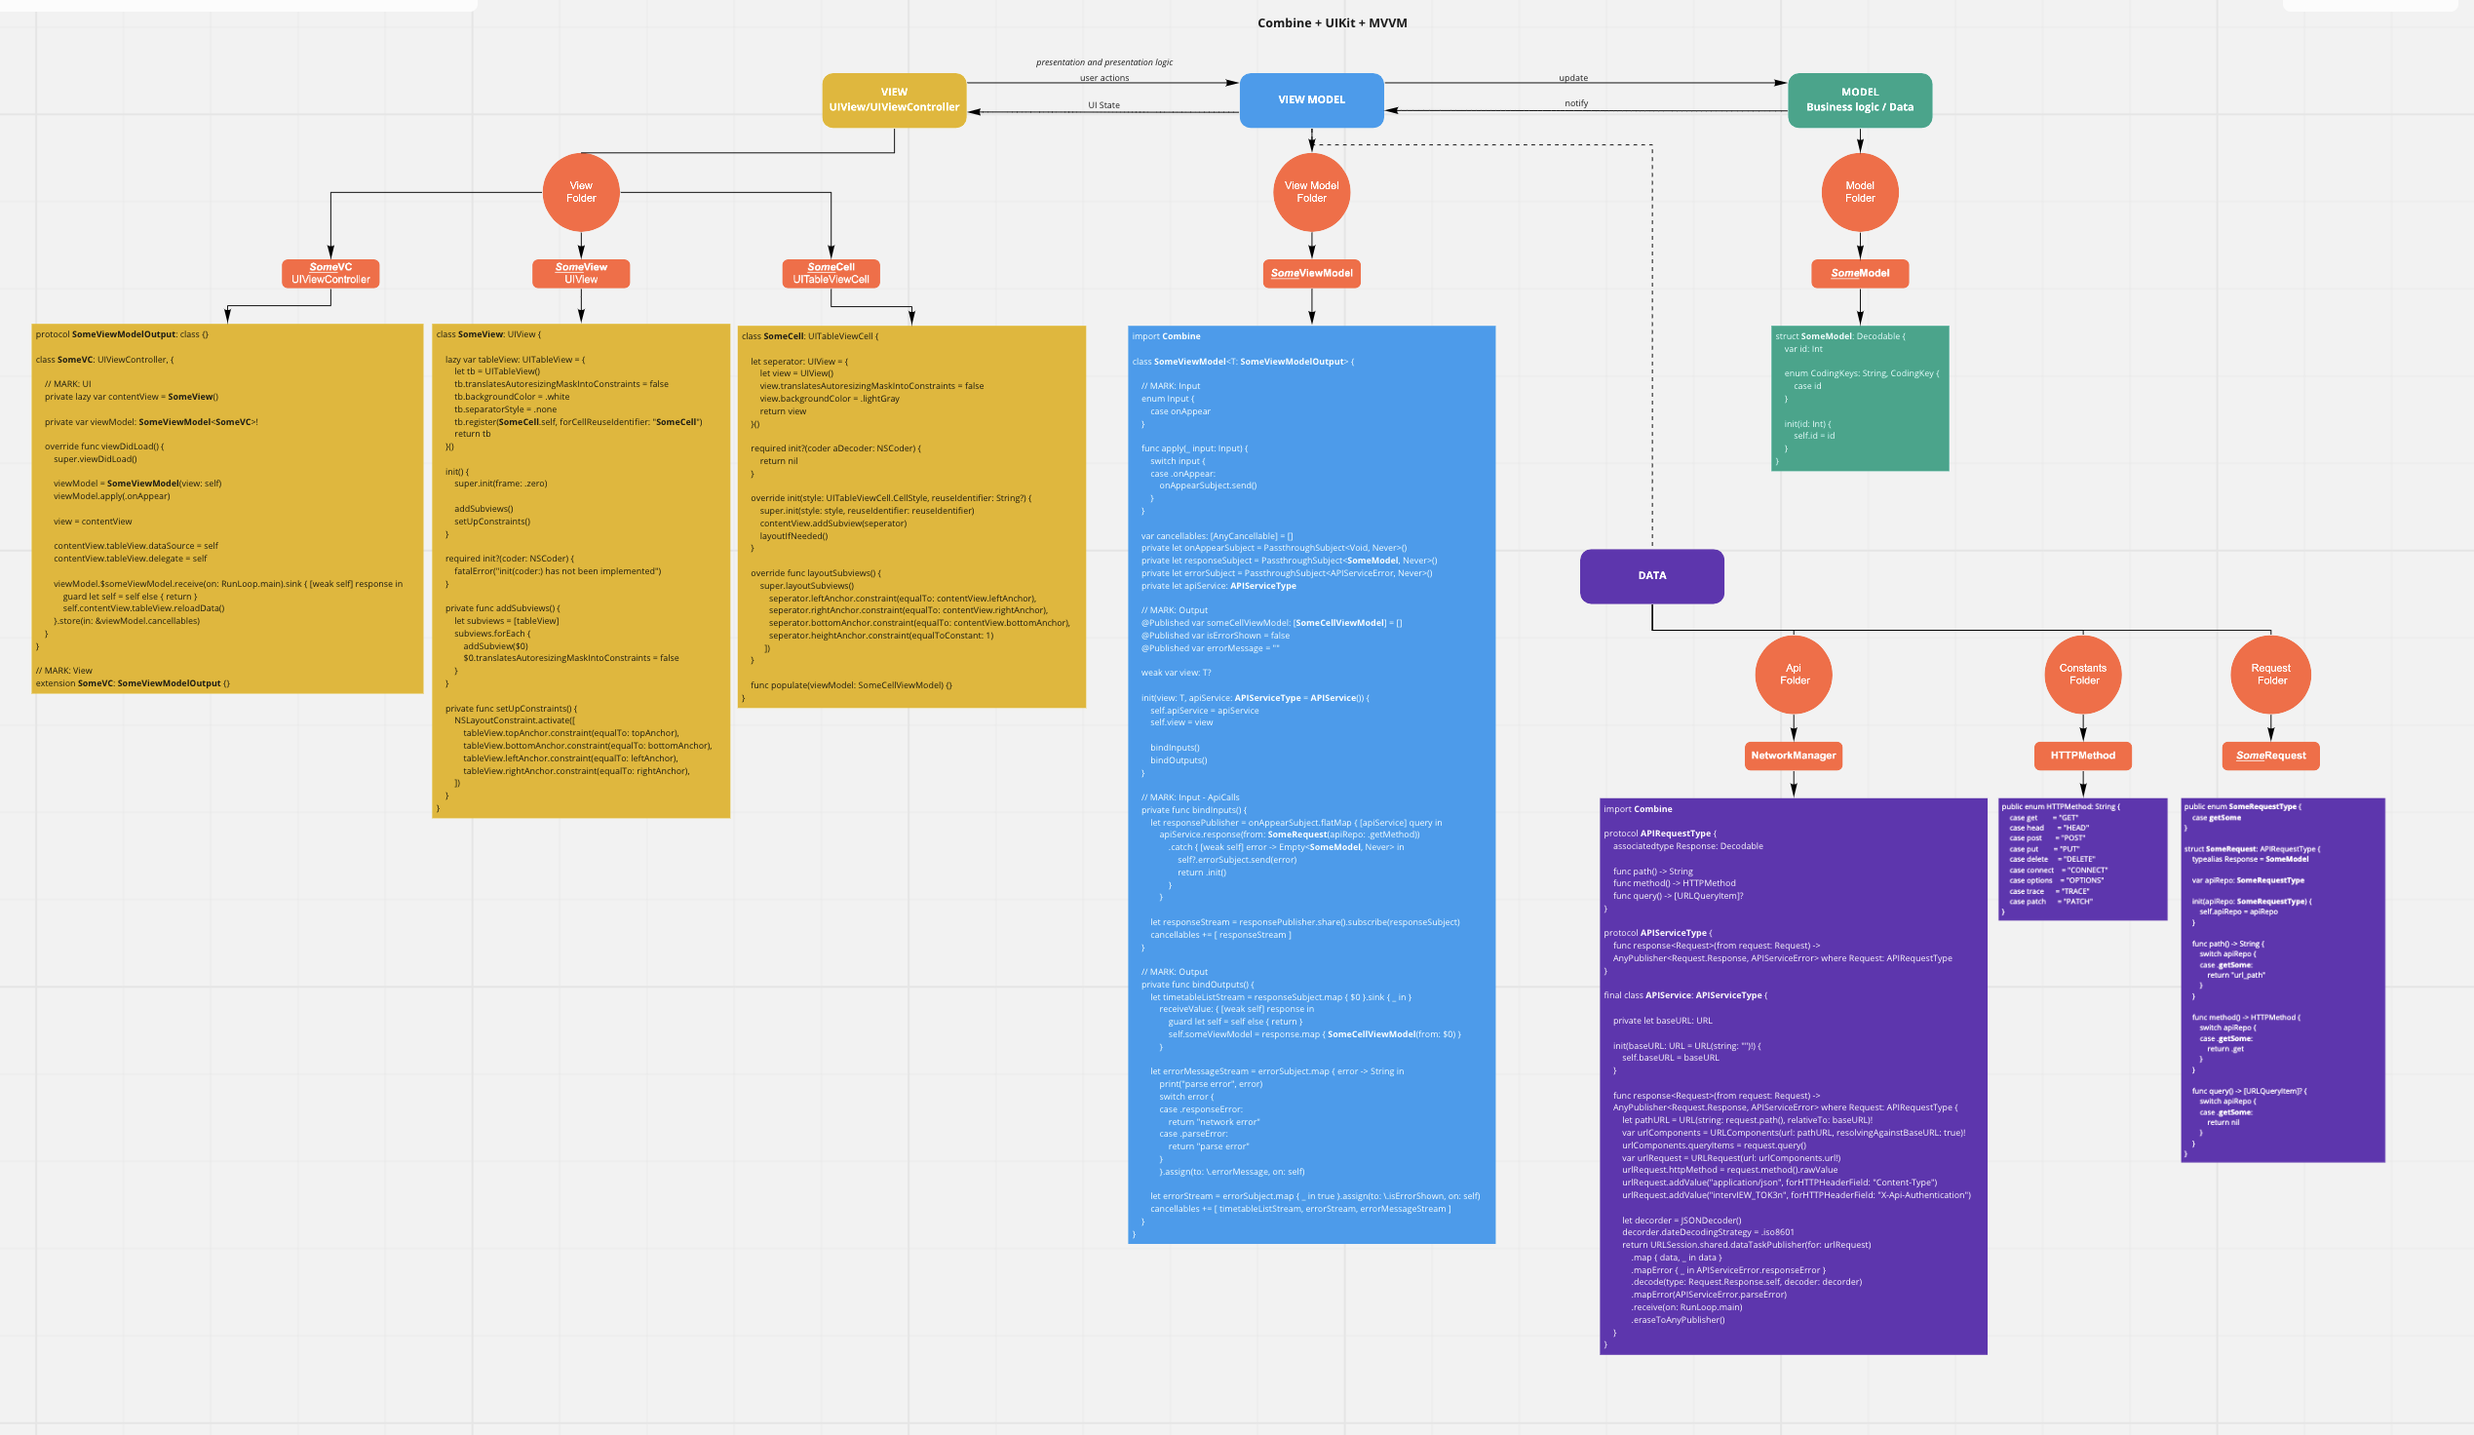
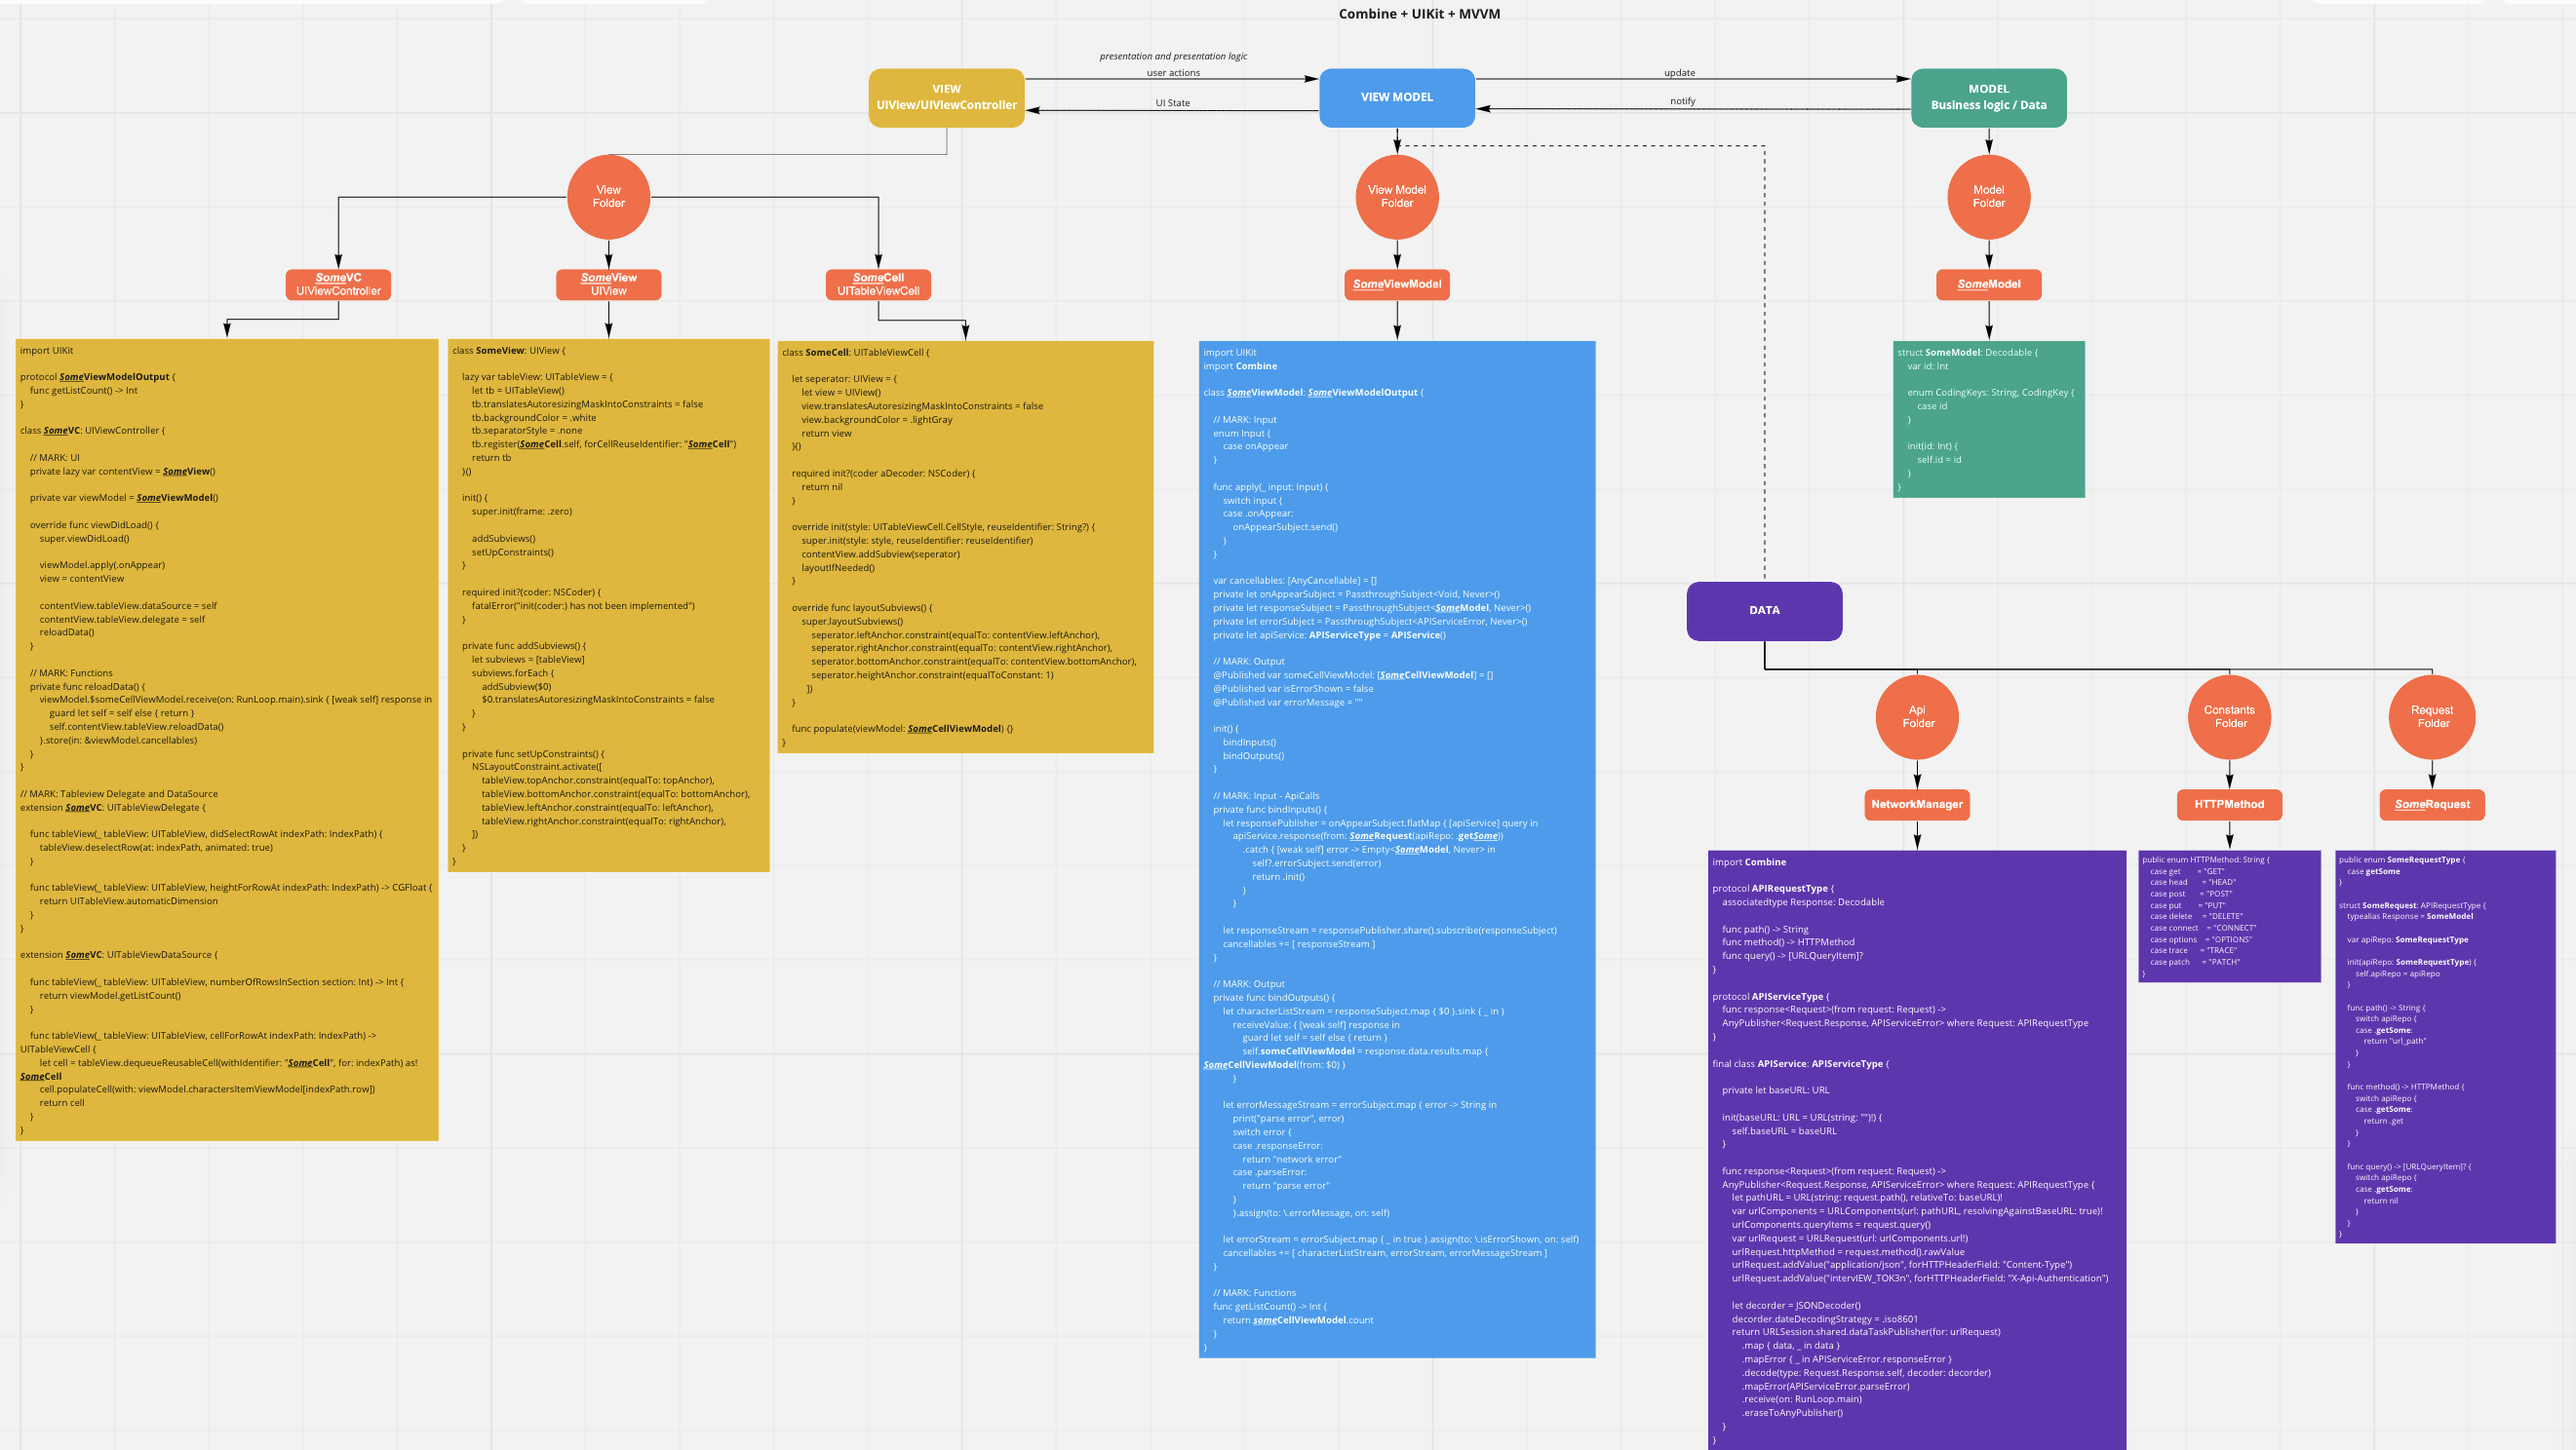
Refactor, update the view model architecture.
Add image for understanding the architecture.

Changed region(s): [[0.0, 0.0, 0.9961, 1.0], [0.7159, 0.0312, 0.8093, 0.3438], [0.6225, 0.0312, 0.6848, 0.0938]]

diff --git a/MarvelCharacters/View/CharacterCell.swift b/MarvelCharacters/View/CharacterCell.swift
@@ -34,24 +34,26 @@ class CharacterCell: UITableViewCell {
     }
     
     override init(style: UITableViewCell.CellStyle, reuseIdentifier: String?) {
-        
         super.init(style: style, reuseIdentifier: reuseIdentifier)
 
         accessoryType = .disclosureIndicator
-        self.contentView.addSubview(titleLabel)
-        self.contentView.addSubview(line)
+        contentView.addSubview(titleLabel)
+        contentView.addSubview(line)
+        
+        layoutIfNeeded()
     }
 
     override func layoutSubviews() {
         super.layoutSubviews()
         NSLayoutConstraint.activate([
-            titleLabel.leftAnchor.constraint(equalTo: self.leftAnchor, constant: CONSTANT),
-            titleLabel.rightAnchor.constraint(equalTo: self.rightAnchor, constant: CONSTANT),
-            titleLabel.centerYAnchor.constraint(equalTo: self.centerYAnchor),
+            titleLabel.leftAnchor.constraint(equalTo: contentView.leftAnchor, constant: CONSTANT),
+            titleLabel.rightAnchor.constraint(equalTo: contentView.rightAnchor, constant: CONSTANT),
+            titleLabel.topAnchor.constraint(equalTo: contentView.topAnchor, constant: CONSTANT),
+            titleLabel.bottomAnchor.constraint(equalTo: contentView.bottomAnchor, constant: -CONSTANT),
             
-            line.leftAnchor.constraint(equalTo: self.leftAnchor, constant: CONSTANT),
-            line.rightAnchor.constraint(equalTo: self.rightAnchor),
-            line.bottomAnchor.constraint(equalTo: bottomAnchor, constant: -1),
+            line.leftAnchor.constraint(equalTo: contentView.leftAnchor, constant: CONSTANT),
+            line.rightAnchor.constraint(equalTo: contentView.rightAnchor),
+            line.bottomAnchor.constraint(equalTo: contentView.bottomAnchor, constant: -1),
             line.heightAnchor.constraint(equalToConstant: 1)
           ])
     }

diff --git a/MarvelCharacters/ViewModel/CharacterListViewModel.swift b/MarvelCharacters/ViewModel/CharacterListViewModel.swift
@@ -8,7 +8,7 @@
 import UIKit
 import Combine
 
-class CharacterListViewModel<T: MarvelCharactersViewModelOutput> {
+class CharacterListViewModel: CharacterListViewModelOutput {
     
     // MARK: Input
     enum Input {
@@ -26,19 +26,14 @@ class CharacterListViewModel<T: MarvelCharactersViewModelOutput> {
     private let onAppearSubject = PassthroughSubject<Void, Never>()
     private let responseSubject = PassthroughSubject<Marvel, Never>()
     private let errorSubject = PassthroughSubject<APIServiceError, Never>()
-    private let apiService: APIServiceType
+    private let apiService: APIServiceType = APIService()
     
     // MARK: Output
     @Published var charactersItemViewModel: [CharactersItemViewModel] = []
     @Published var isErrorShown = false
     @Published var errorMessage = ""
     
-    weak var view: T?
-    
-    init(view: T, apiService: APIServiceType = APIService()) {
-        self.apiService = apiService
-        self.view = view
-        
+    init() {
         bindInputs()
         bindOutputs()
     }
@@ -78,9 +73,6 @@ class CharacterListViewModel<T: MarvelCharactersViewModelOutput> {
         let errorStream = errorSubject.map { _ in true }.assign(to: \.isErrorShown, on: self)
         cancellables += [ characterListStream, errorStream, errorMessageStream ]
     }
-}
-
-extension CharacterListViewModel {
     
     // MARK: Functions
     func getListCount() -> Int {

diff --git a/MarvelCharacters/View/CharacterListVC.swift b/MarvelCharacters/View/CharacterListVC.swift
@@ -7,34 +7,36 @@
 
 import UIKit
 
-protocol MarvelCharactersViewModelOutput: class {}
+protocol CharacterListViewModelOutput {
+    func getListCount() -> Int
+}
 
 class CharacterListVC: UIViewController {
     
     // MARK: UI
     private lazy var contentView = CharacterListView()
     
-    private var viewModel: CharacterListViewModel<CharacterListVC>!
+    private var viewModel = CharacterListViewModel()
     
     override func viewDidLoad() {
         super.viewDidLoad()
         
-        viewModel = CharacterListViewModel(view: self)
         viewModel.apply(.onAppear)
-        
         view = contentView
+        
         contentView.tableView.dataSource = self
         contentView.tableView.delegate = self
-        
+        reloadData()
+    }
+    
+    // MARK: Functions
+    private func reloadData() {
         viewModel.$charactersItemViewModel.receive(on: RunLoop.main).sink { [weak self] response in
             guard let self = self else { return }
             self.contentView.tableView.reloadData()
         }.store(in: &viewModel.cancellables)
     }
 }
-
-// MARK: View
-extension CharacterListVC: MarvelCharactersViewModelOutput {}
 
 // MARK: Tableview Delegate and DataSource
 extension CharacterListVC: UITableViewDelegate {

diff --git a/MarvelCharacters/SceneDelegate.swift b/MarvelCharacters/SceneDelegate.swift
@@ -18,6 +18,7 @@ class SceneDelegate: UIResponder, UIWindowSceneDelegate {
         
         if let windowScene = scene as? UIWindowScene {
             self.window = UIWindow(windowScene: windowScene)
+            
             let marvelCharactersVC = CharacterListVC()
             let mainNavigationController = UINavigationController(rootViewController: marvelCharactersVC)
             self.window!.rootViewController = mainNavigationController
